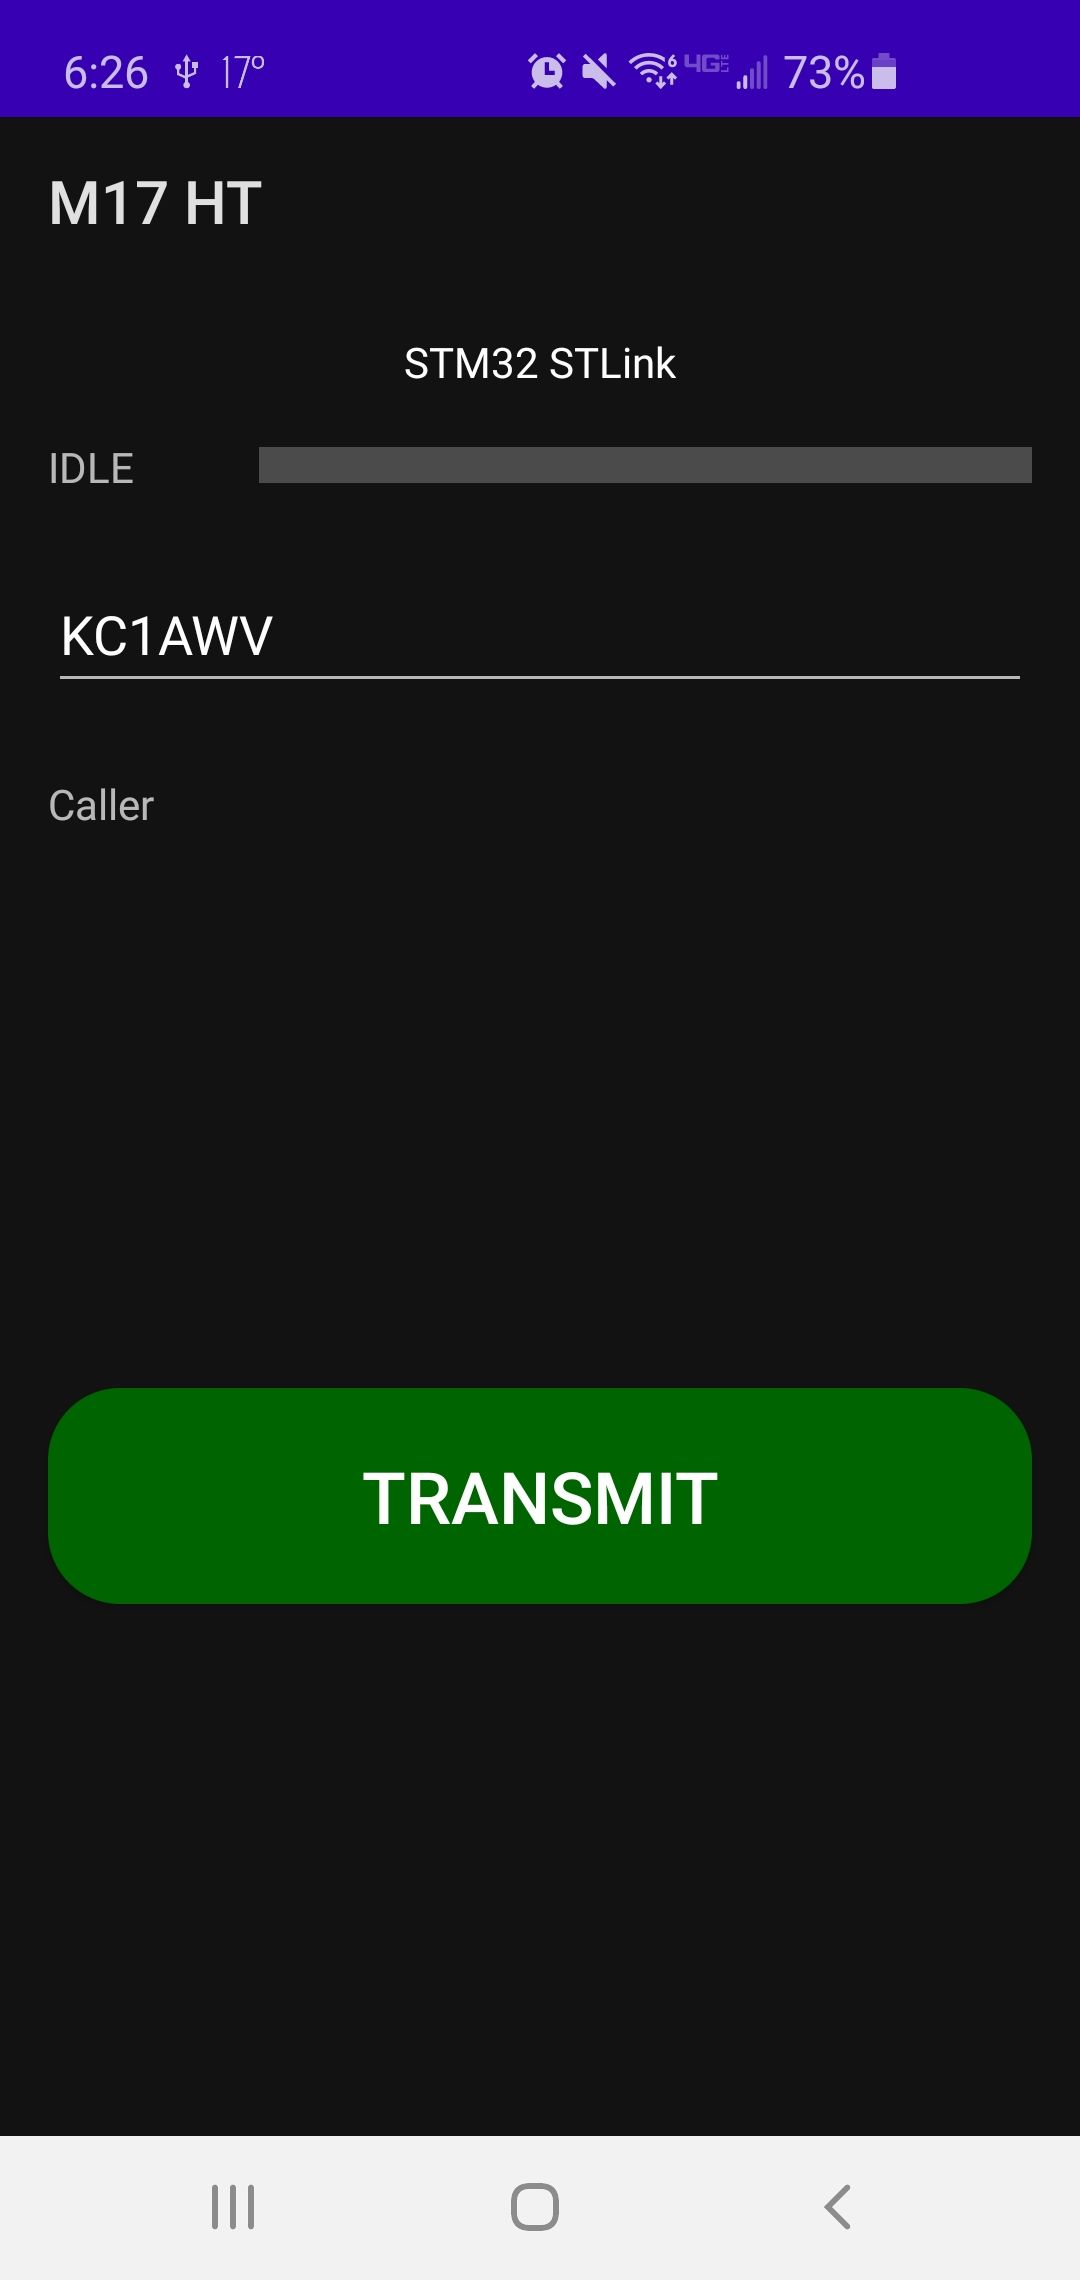
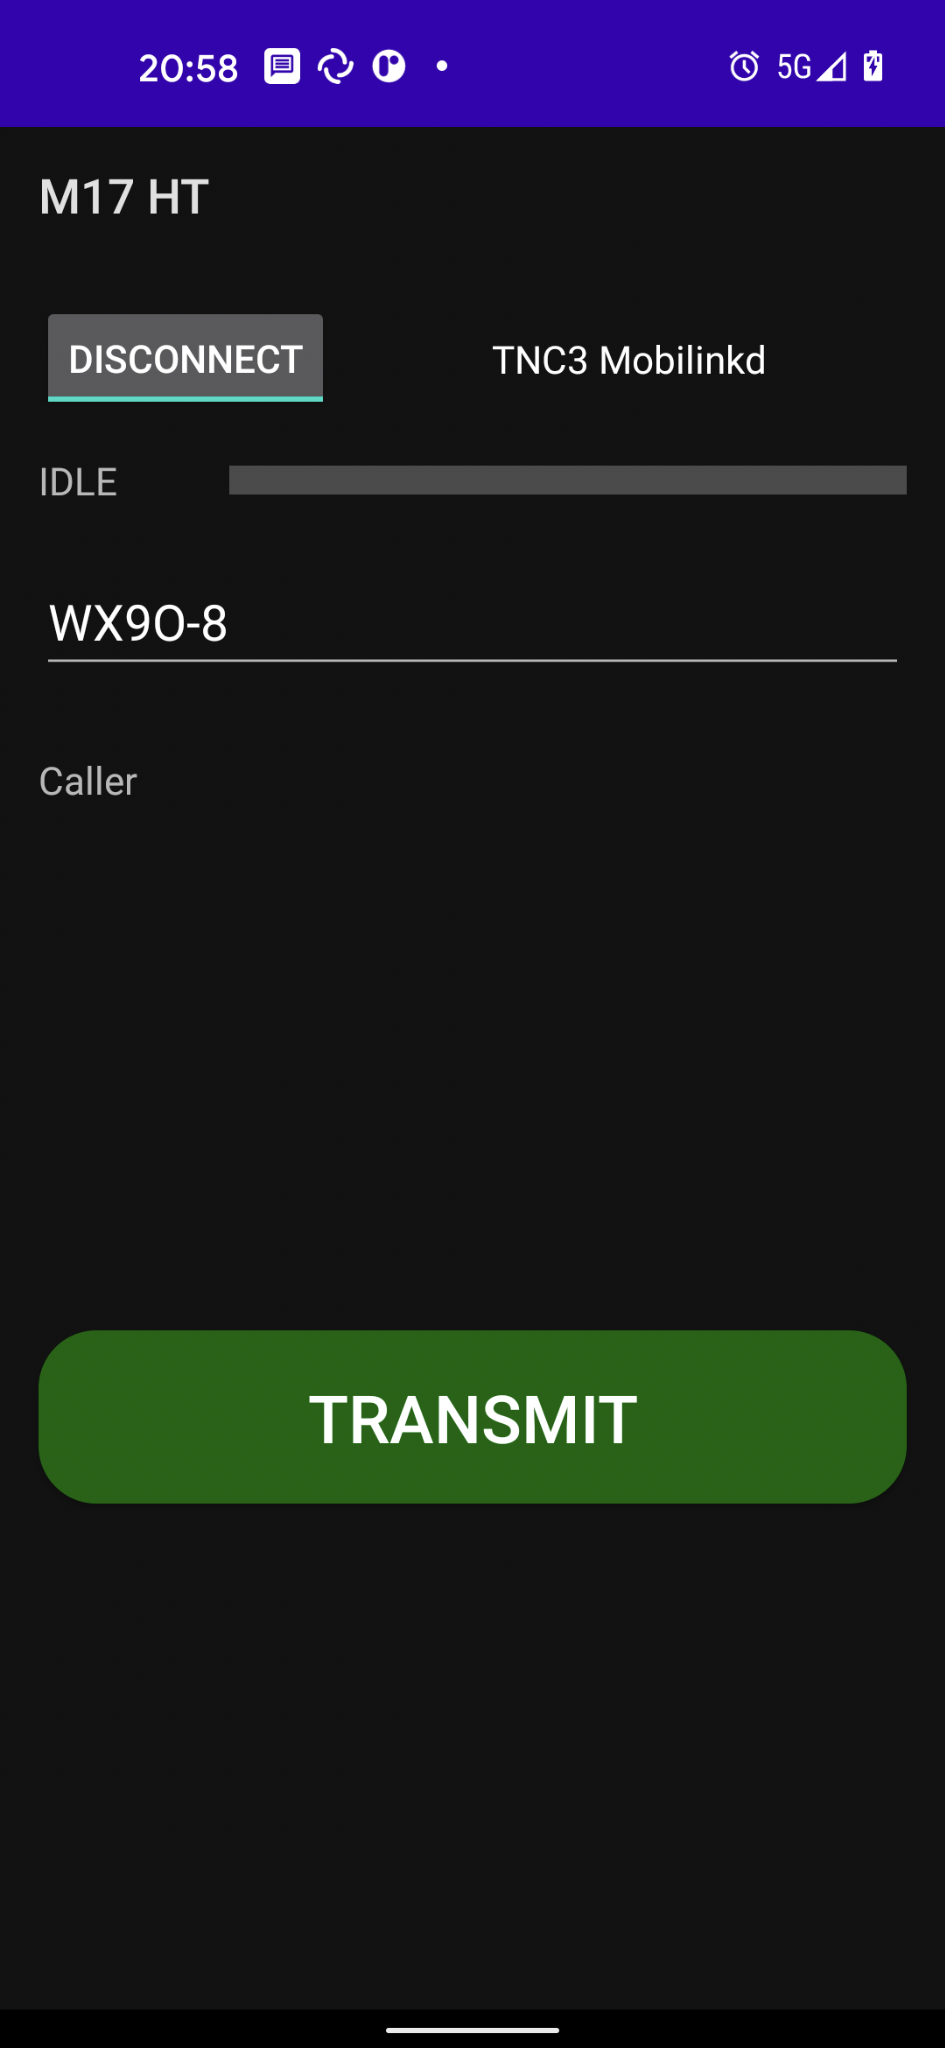
Add Connect/Disconnect button and improve BLE connection lifecycle.

diff --git a/m17kissht/src/main/java/com/mobilinkd/m17kissht/MainActivity.kt b/m17kissht/src/main/java/com/mobilinkd/m17kissht/MainActivity.kt
@@ -34,15 +34,16 @@ class MainActivity : AppCompatActivity() {
             Manifest.permission.BLUETOOTH,
             Manifest.permission.RECORD_AUDIO
     )
-    private var _isActive = false
-    private var _textConnInfo: TextView? = null
-    private var _textStatus: TextView? = null
-    private var _progressTxRxLevel: ProgressBar? = null
-    private var _editTextCallSign: TextView? = null
-    private var _receivedCallSign: TextView? = null
-    private var _transmitButton: Button? = null
-    private var _codec2Player: Codec2Player? = null
-    private var _callsign: String? = null
+    private var mIsActive = false
+    private var mDeviceTextView: TextView? = null
+    private var mStatusTextView: TextView? = null
+    private var mAudioLevelBar: ProgressBar? = null
+    private var mEditCallsign: TextView? = null
+    private var mReceivingCallsign: TextView? = null
+    private var mConnectButton: ToggleButton? = null
+    private var mTransmitButton: Button? = null
+    private var mAudioPlayer: Codec2Player? = null
+    private var mCallsign: String? = null
 
 
     private var mBluetoothDevice: BluetoothDevice? = null
@@ -55,10 +56,12 @@ class MainActivity : AppCompatActivity() {
         override fun onServiceConnected(className: ComponentName, service: IBinder) {
             Log.i(TAG, "Service connected")
             // We've bound to LocalService, cast the IBinder and get LocalService instance
-            val binder = service as BluetoothLEService.LocalBinder
-            mService = binder.service
-            mBound = true
-            binder.service.initialize(mBluetoothDevice!!)
+            if (!mBound) {
+                val binder = service as BluetoothLEService.LocalBinder
+                mService = binder.service
+                mBound = true
+            }
+            mService?.initialize(mBluetoothDevice!!)
         }
 
         override fun onServiceDisconnected(arg0: ComponentName) {
@@ -71,10 +74,13 @@ class MainActivity : AppCompatActivity() {
             when(intent?.action) {
                 ACTION_GATT_CONNECTED -> {
                     Log.i(TAG, "GATT connected")
+                    mDeviceTextView!!.text = mBluetoothDevice?.name
+                    mConnectButton?.isActivated = true
+                    mConnectButton?.isEnabled = true
                 }
                 ACTION_GATT_SERVICES_DISCOVERED -> {
                     Log.i(TAG, "KISS TNC Service connected")
-                    if (_callsign != null) _transmitButton!!.isEnabled = true
+                    if (mCallsign != null) mTransmitButton!!.isEnabled = true
                     try {
                         startPlayer(false)
                     } catch (e: IOException) {
@@ -82,16 +88,19 @@ class MainActivity : AppCompatActivity() {
                     }
                 }
                 ACTION_GATT_DISCONNECTED -> {
-                    if (_codec2Player != null) {
+                    Log.i(TAG, "GATT disconnected")
+                    if (mAudioPlayer != null) {
                         Toast.makeText(this@MainActivity, "Bluetooth disconnected", Toast.LENGTH_SHORT).show()
-                        _codec2Player!!.stopRunning()
+                        mAudioPlayer!!.stopRunning()
                     }
-                    _transmitButton?.isEnabled = false
-                    startBluetoothConnectActivity()
+                    mConnectButton?.isActivated = false
+                    mConnectButton?.isEnabled = true
+                    mDeviceTextView?.text = getString(R.string.not_connected_label)
+                    mTransmitButton?.isEnabled = false
                 }
                 ACTION_DATA_AVAILABLE -> {
                     var data = intent.extras?.get(EXTRA_DATA) as ByteArray
-                    _codec2Player?.onBluetoothData(data)
+                    mAudioPlayer?.onBluetoothData(data)
                 }
             }
          }
@@ -100,21 +109,23 @@ class MainActivity : AppCompatActivity() {
     @SuppressLint("ClickableViewAccessibility")
     override fun onCreate(savedInstanceState: Bundle?) {
         super.onCreate(savedInstanceState)
-        _isActive = true
+        mIsActive = true
         setContentView(R.layout.activity_main)
-        _textConnInfo = findViewById(R.id.textBtName)
-        _textStatus = findViewById(R.id.textViewState)
-        _progressTxRxLevel = findViewById(R.id.progressTxRxLevel)
-        _progressTxRxLevel!!.setMax(-Codec2Player.audioMinLevel)
-        _editTextCallSign = findViewById(R.id.editTextCallSign)
-        _editTextCallSign!!.setOnEditorActionListener(onCallsignChanged)
-        _receivedCallSign = findViewById(R.id.textViewReceivedCallsign)
-        _transmitButton = findViewById(R.id.buttonTransmit)
-        _transmitButton!!.setOnTouchListener(onBtnPttTouchListener)
+        mDeviceTextView = findViewById(R.id.textBtName)
+        mStatusTextView = findViewById(R.id.textViewState)
+        mAudioLevelBar = findViewById(R.id.progressTxRxLevel)
+        mAudioLevelBar!!.setMax(-Codec2Player.audioMinLevel)
+        mEditCallsign = findViewById(R.id.editTextCallSign)
+        mEditCallsign!!.setOnEditorActionListener(onCallsignChanged)
+        mReceivingCallsign = findViewById(R.id.textViewReceivedCallsign)
+        mTransmitButton = findViewById(R.id.buttonTransmit)
+        mTransmitButton!!.setOnTouchListener(onBtnPttTouchListener)
+        mConnectButton = findViewById(R.id.connectButton)
+        mConnectButton!!.setOnClickListener(onConnectListener)
 
-        _callsign = getLastCallsign()
-        if (_callsign != null) {
-            _editTextCallSign!!.text = _callsign
+        mCallsign = getLastCallsign()
+        if (mCallsign != null) {
+            mEditCallsign!!.text = mCallsign
         }
 
         registerReceiver(onUsbDetached, IntentFilter(UsbManager.ACTION_USB_DEVICE_DETACHED))
@@ -135,9 +146,9 @@ class MainActivity : AppCompatActivity() {
 
     override fun onDestroy() {
         super.onDestroy()
-        _isActive = false
-        if (_codec2Player != null) {
-            _codec2Player!!.stopRunning()
+        mIsActive = false
+        if (mAudioPlayer != null) {
+            mAudioPlayer!!.stopRunning()
         }
     }
 
@@ -175,20 +186,20 @@ class MainActivity : AppCompatActivity() {
     }
 
     private val onLoopbackCheckedChangeListener = CompoundButton.OnCheckedChangeListener { buttonView, isChecked ->
-        if (_codec2Player != null) {
-            _codec2Player!!.setLoopbackMode(isChecked)
+        if (mAudioPlayer != null) {
+            mAudioPlayer!!.setLoopbackMode(isChecked)
         }
     }
     private val onCallsignChanged = TextView.OnEditorActionListener { textView, actionId, keyEvent ->
         if (actionId == EditorInfo.IME_ACTION_DONE ||
                 keyEvent != null && keyEvent.action == KeyEvent.ACTION_DOWN && keyEvent.keyCode == KeyEvent.KEYCODE_ENTER) {
             if (keyEvent == null || !keyEvent.isShiftPressed) {
-                _callsign = validateCallsign(textView.text.toString())
-                textView.text = _callsign
-                _codec2Player?.setCallsign(_callsign)
-                _transmitButton!!.isEnabled = true
+                mCallsign = validateCallsign(textView.text.toString())
+                textView.text = mCallsign
+                mAudioPlayer?.setCallsign(mCallsign)
+                mTransmitButton!!.isEnabled = true
                 textView.clearFocus()
-                setLastCallsign(_callsign!!)
+                setLastCallsign(mCallsign!!)
                 return@OnEditorActionListener false // hide keyboard.
             }
         }
@@ -197,22 +208,35 @@ class MainActivity : AppCompatActivity() {
 
     private val onUsbDetached: BroadcastReceiver = object : BroadcastReceiver() {
         override fun onReceive(context: Context, intent: Intent) {
-            if (_codec2Player != null && UsbPortHandler.getPort() != null) {
+            if (mAudioPlayer != null && UsbPortHandler.getPort() != null) {
                 Toast.makeText(this@MainActivity, "USB detached", Toast.LENGTH_SHORT).show()
-                _codec2Player!!.stopRunning()
-                _transmitButton!!.isEnabled = false
+                mAudioPlayer!!.stopRunning()
+                mTransmitButton!!.isEnabled = false
+                mConnectButton?.isActivated = false
+                mConnectButton?.text = getString(R.string.connect_label)
+                mConnectButton?.isEnabled = true
+                mDeviceTextView?.text = getString(R.string.not_connected_label)
             }
         }
     }
+
     private val onBtnPttTouchListener = View.OnTouchListener { v, event ->
         when (event.action) {
-            MotionEvent.ACTION_DOWN -> if (_codec2Player != null && _callsign != null) _codec2Player!!.startRecording()
+            MotionEvent.ACTION_DOWN -> if (mAudioPlayer != null && mCallsign != null) mAudioPlayer!!.startRecording()
             MotionEvent.ACTION_UP -> {
                 v.performClick()
-                if (_codec2Player != null) _codec2Player!!.startPlayback()
+                if (mAudioPlayer != null) mAudioPlayer!!.startPlayback()
             }
         }
         false
+    }
+
+    private val onConnectListener = View.OnClickListener { _ ->
+        if (mConnectButton!!.isChecked) {
+            connectToBluetooth()
+        } else {
+            mService?.close()
+        }
     }
 
     override fun onRequestPermissionsResult(requestCode: Int, permissions: Array<String>, grantResults: IntArray) {
@@ -237,39 +261,39 @@ class MainActivity : AppCompatActivity() {
 
     private val onPlayerStateChanged: Handler = object : Handler(Looper.getMainLooper()) {
         override fun handleMessage(msg: Message) {
-            if (_isActive && msg.what == Codec2Player.PLAYER_DISCONNECT) {
-                _textStatus!!.text = "STOP"
+            if (mIsActive && msg.what == Codec2Player.PLAYER_DISCONNECT) {
+                mStatusTextView!!.text = "STOP"
                 Toast.makeText(baseContext, "Disconnected from modem", Toast.LENGTH_SHORT).show()
                 startUsbConnectActivity()
             } else if (msg.what == Codec2Player.PLAYER_LISTENING) {
-                _textStatus!!.setText(R.string.state_label_idle)
-                _receivedCallSign!!.text = ""
+                mStatusTextView!!.setText(R.string.state_label_idle)
+                mReceivingCallsign!!.text = ""
             } else if (msg.what == Codec2Player.PLAYER_RECORDING) {
-                _textStatus!!.setText(R.string.state_label_transmit)
+                mStatusTextView!!.setText(R.string.state_label_transmit)
             } else if (msg.what == Codec2Player.PLAYER_PLAYING) {
-                _textStatus!!.setText(R.string.state_label_receive)
+                mStatusTextView!!.setText(R.string.state_label_receive)
             } else if (msg.what == Codec2Player.PLAYER_RX_LEVEL) {
-                _progressTxRxLevel!!.progressDrawable.colorFilter = PorterDuffColorFilter(colorFromAudioLevel(msg.arg1), PorterDuff.Mode.SRC_IN)
-                _progressTxRxLevel!!.progress = msg.arg1 - Codec2Player.audioMinLevel
+                mAudioLevelBar!!.progressDrawable.colorFilter = PorterDuffColorFilter(colorFromAudioLevel(msg.arg1), PorterDuff.Mode.SRC_IN)
+                mAudioLevelBar!!.progress = msg.arg1 - Codec2Player.audioMinLevel
             } else if (msg.what == Codec2Player.PLAYER_TX_LEVEL) {
-                _progressTxRxLevel!!.progressDrawable.colorFilter = PorterDuffColorFilter(colorFromAudioLevel(msg.arg1), PorterDuff.Mode.SRC_IN)
-                _progressTxRxLevel!!.progress = msg.arg1 - Codec2Player.audioMinLevel
+                mAudioLevelBar!!.progressDrawable.colorFilter = PorterDuffColorFilter(colorFromAudioLevel(msg.arg1), PorterDuff.Mode.SRC_IN)
+                mAudioLevelBar!!.progress = msg.arg1 - Codec2Player.audioMinLevel
             } else if (msg.what == Codec2Player.PLAYER_CALLSIGN_RECEIVED) {
                 val callsign = msg.obj as String
-                _receivedCallSign!!.text = callsign
+                mReceivingCallsign!!.text = callsign
             }
         }
     }
 
     @Throws(IOException::class)
     private fun startPlayer(isUsb: Boolean) {
-        _codec2Player = Codec2Player(onPlayerStateChanged, CODEC2_DEFAULT_MODE, _callsign ?: "")
+        mAudioPlayer = Codec2Player(onPlayerStateChanged, CODEC2_DEFAULT_MODE, mCallsign ?: "")
         if (isUsb) {
-            _codec2Player!!.setUsbPort(UsbPortHandler.getPort())
+            mAudioPlayer!!.setUsbPort(UsbPortHandler.getPort())
         } else {
-            _codec2Player!!.setBleService(mService!!)
+            mAudioPlayer!!.setBleService(mService!!)
         }
-        _codec2Player!!.start()
+        mAudioPlayer!!.start()
     }
 
     private fun getLastBleDevice() : String? {
@@ -326,10 +350,15 @@ class MainActivity : AppCompatActivity() {
 
     private fun bindBleService(device: BluetoothDevice) {
         mBluetoothDevice = device
-        Log.i(TAG, "Bluetooth connect to " + mBluetoothDevice?.name);
+        Log.i(TAG, "Bluetooth connect to " + mBluetoothDevice?.name)
         val gattServiceIntent = Intent(this, BluetoothLEService::class.java)
-        bindService(gattServiceIntent, connection, BIND_AUTO_CREATE)
-        _textConnInfo!!.text = mBluetoothDevice?.name
+        if (!mBound) {
+            bindService(gattServiceIntent, connection, BIND_AUTO_CREATE)
+        } else {
+            Log.i(TAG, "Re-initializing bound service")
+            mService?.initialize(mBluetoothDevice!!)
+        }
+        mConnectButton?.isEnabled = false
     }
 
     private fun connectToBluetooth() {
@@ -338,10 +367,12 @@ class MainActivity : AppCompatActivity() {
             Log.i(TAG, "Bluetooth connecting to last device @ " + address);
             val bluetoothManager: BluetoothManager = getSystemService(BLUETOOTH_SERVICE) as BluetoothManager
             val device = bluetoothManager.getAdapter().getRemoteDevice(address)
-            bindBleService(device)
-        } else {
-            startBluetoothConnectActivity()
+            if (device.bondState == BluetoothDevice.BOND_BONDED) {
+                bindBleService(device)
+                return
+            }
         }
+        startBluetoothConnectActivity()
     }
 
     override fun onActivityResult(requestCode: Int, resultCode: Int, data: Intent?) {
@@ -361,11 +392,12 @@ class MainActivity : AppCompatActivity() {
             }
         }
         if (requestCode == REQUEST_CONNECT_USB) {
-            if (resultCode == RESULT_CANCELED) {
-                connectToBluetooth()
-            } else if (resultCode == RESULT_OK) {
-                if (_callsign != null) _transmitButton!!.isEnabled = true
-                _textConnInfo!!.text = data!!.getStringExtra("name")
+            if (resultCode == RESULT_OK) {
+                if (mCallsign != null) mTransmitButton!!.isEnabled = true
+                mDeviceTextView!!.text = data!!.getStringExtra("name")
+                mConnectButton?.isActivated = true
+                mConnectButton?.text = getString(R.string.disconnect_label)
+                mConnectButton?.isEnabled = false
                 try {
                     startPlayer(true)
                 } catch (e: IOException) {

diff --git a/m17kissht/src/main/java/com/mobilinkd/m17kissht/bluetooth/BluetoothLEService.kt b/m17kissht/src/main/java/com/mobilinkd/m17kissht/bluetooth/BluetoothLEService.kt
@@ -55,6 +55,7 @@ class BluetoothLEService : Service() {
                 status: Int,
                 newState: Int
         ) {
+            if (D) Log.d(TAG, "gattCallback: status = $status, state = $newState")
             when (newState) {
                 BluetoothProfile.STATE_CONNECTED -> {
                     connectionState = STATE_CONNECTED
@@ -66,8 +67,9 @@ class BluetoothLEService : Service() {
                 BluetoothProfile.STATE_DISCONNECTED -> {
                     connectionState = STATE_DISCONNECTED
                     Log.i(TAG, "Disconnected from GATT server (status = $status).")
-                    tncService = null;
+                    bluetoothGatt?.close()
                     bluetoothGatt = null
+                    tncService = null;
                     rxCharacteristic = null
                     txCharacteristic = null
                     broadcastUpdate(ACTION_GATT_DISCONNECTED)
@@ -188,8 +190,7 @@ class BluetoothLEService : Service() {
     }
 
     fun close() {
-        bluetoothGatt?.close()
-        bluetoothGatt = null
+        bluetoothGatt?.disconnect()
     }
 
     inner class LocalBinder : Binder() {

diff --git a/m17kissht/src/main/java/com/mobilinkd/m17kissht/Codec2Player.kt b/m17kissht/src/main/java/com/mobilinkd/m17kissht/Codec2Player.kt
@@ -27,7 +27,7 @@ class Codec2Player(private val _onPlayerStateChanged: Handler, codec2Mode: Int, 
     private val POST_PLAY_DELAY_MS = 400
     private val RX_TIMEOUT = 100
     private val TX_TIMEOUT = 2000
-    private val TX_DELAY_10MS_UNITS = 8.toByte()
+    private val TX_DELAY_10MS_UNITS: Byte = 8
     private val RX_BUFFER_SIZE = 8192
     private var _codec2Con: Long = 0
     private var _usbPort: UsbSerialDevice? = null

diff --git a/m17kissht/src/main/java/com/mobilinkd/m17kissht/AudioService.kt b/m17kissht/src/main/java/com/mobilinkd/m17kissht/AudioService.kt
@@ -1,0 +1,4 @@
+package com.mobilinkd.m17kissht
+
+class AudioService {
+}

diff --git a/README.md b/README.md
@@ -25,8 +25,8 @@ The modem and the radio handle the M17 data link layer and physical layer.
   the modem.
 - **USB serial connectivity** (38400 bps, 8 data bits, 1 stop bit, no parity), just select this app
   after connecting to USB and it will use given connection.
-- **BluetoothLE connectivity** on startup, lists paired devices, so you can choose your modem and
-  connect.
+- **BluetoothLE connectivity** use the Connect/Disconnect button to connect/disconnect BLE devices.
+  It will attempt to connect to the last connected device.  Otherwise it will scan for devices.
 - **Callsign Identification** enter your callsign once connected in order to be able to transmit.
 - **Caller Identification** received callsign is clearly displayed when an M17 DV call is received.
 - **User Preferences** BLE device preference and user callsign will be saved for later.
@@ -76,9 +76,5 @@ across the BLE link without significant latency/jitter.
 https://www.b4x.com/android/forum/threads/uart-data-comms-using-bm78-dual-mode-ble-module.68113/
 
 # TODO
-- Improved BLE/USB connection management.
-- Audio issues when reconnecting BLE.
-- Improved UI layout.
 - Configuration screen for USB serial parameters, callsign, etc.
 - Received callsign history.
-
